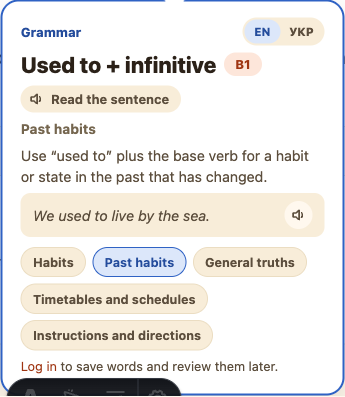
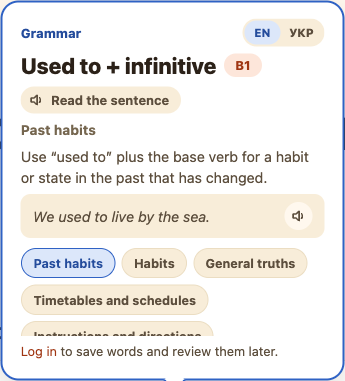
cap variant 1's pill row and pin the matched pill first
Some constructions have dozens of usage points (EGP's "adverbs as
modifiers" has 31) — cap the pill row's height with a vertical
scroll and always render the matched usage point first, so it stays
visible without scrolling regardless of how many siblings there are.
Records the chosen variant and this constraint in the plan for slice 4.

diff --git a/apps/web/src/lib/grammar-usage-point-design.ts b/apps/web/src/lib/grammar-usage-point-design.ts
@@ -51,8 +51,9 @@ const MOCK_SIBLING_POOL: Omit<MockUsagePoint, 'id' | 'matched'>[] = [
   },
 ];
 
-// The real matched usage point, dropped into a fixed slot among the mock
-// siblings so the active pill isn't always first or last.
+// The real matched usage point always comes first — a construction can have
+// dozens of siblings (EGP's "adverbs as modifiers" has 31), so the matched
+// one must stay visible without scrolling the pill row.
 export function mockUsagePoints(
   entry: GrammarLexiconEntry,
   guideword: string,
@@ -70,5 +71,5 @@ export function mockUsagePoints(
     id: `mock-usage-point-${index}`,
     matched: false,
   }));
-  return [others[0], matched, ...others.slice(1)];
+  return [matched, ...others];
 }

diff --git a/apps/web/src/styles/app.css b/apps/web/src/styles/app.css
@@ -1527,6 +1527,8 @@ body {
   flex-wrap: wrap;
   gap: 0.4rem;
   margin-top: 0.6rem;
+  max-height: 5.5rem;
+  overflow-y: auto;
 }
 .usage-picker__pill {
   padding: 0.3rem 0.7rem;
